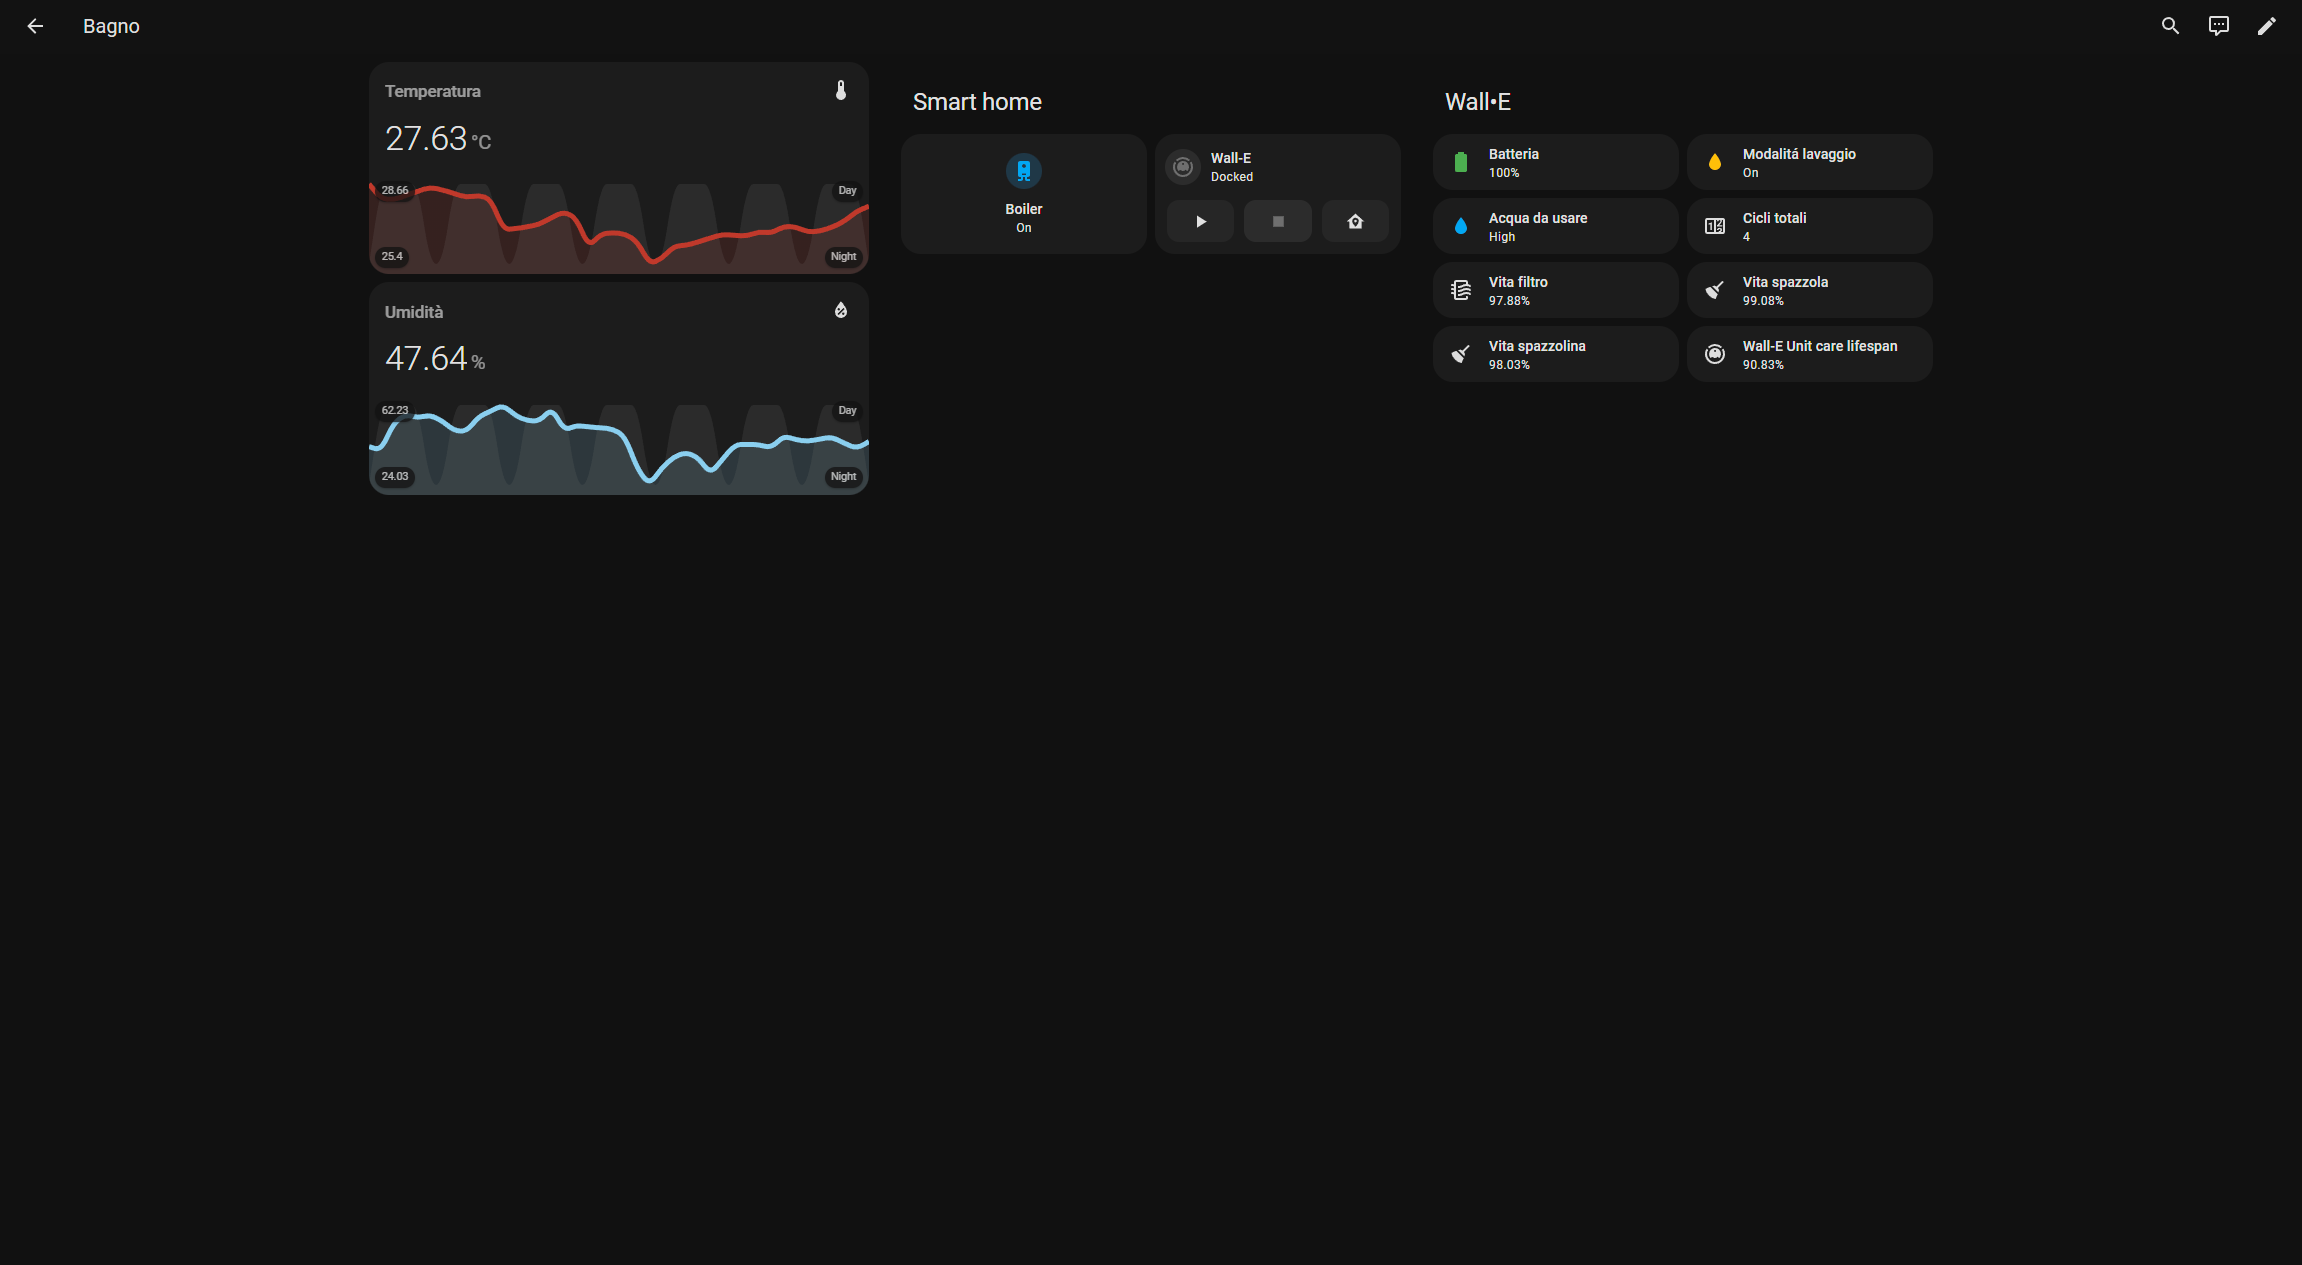
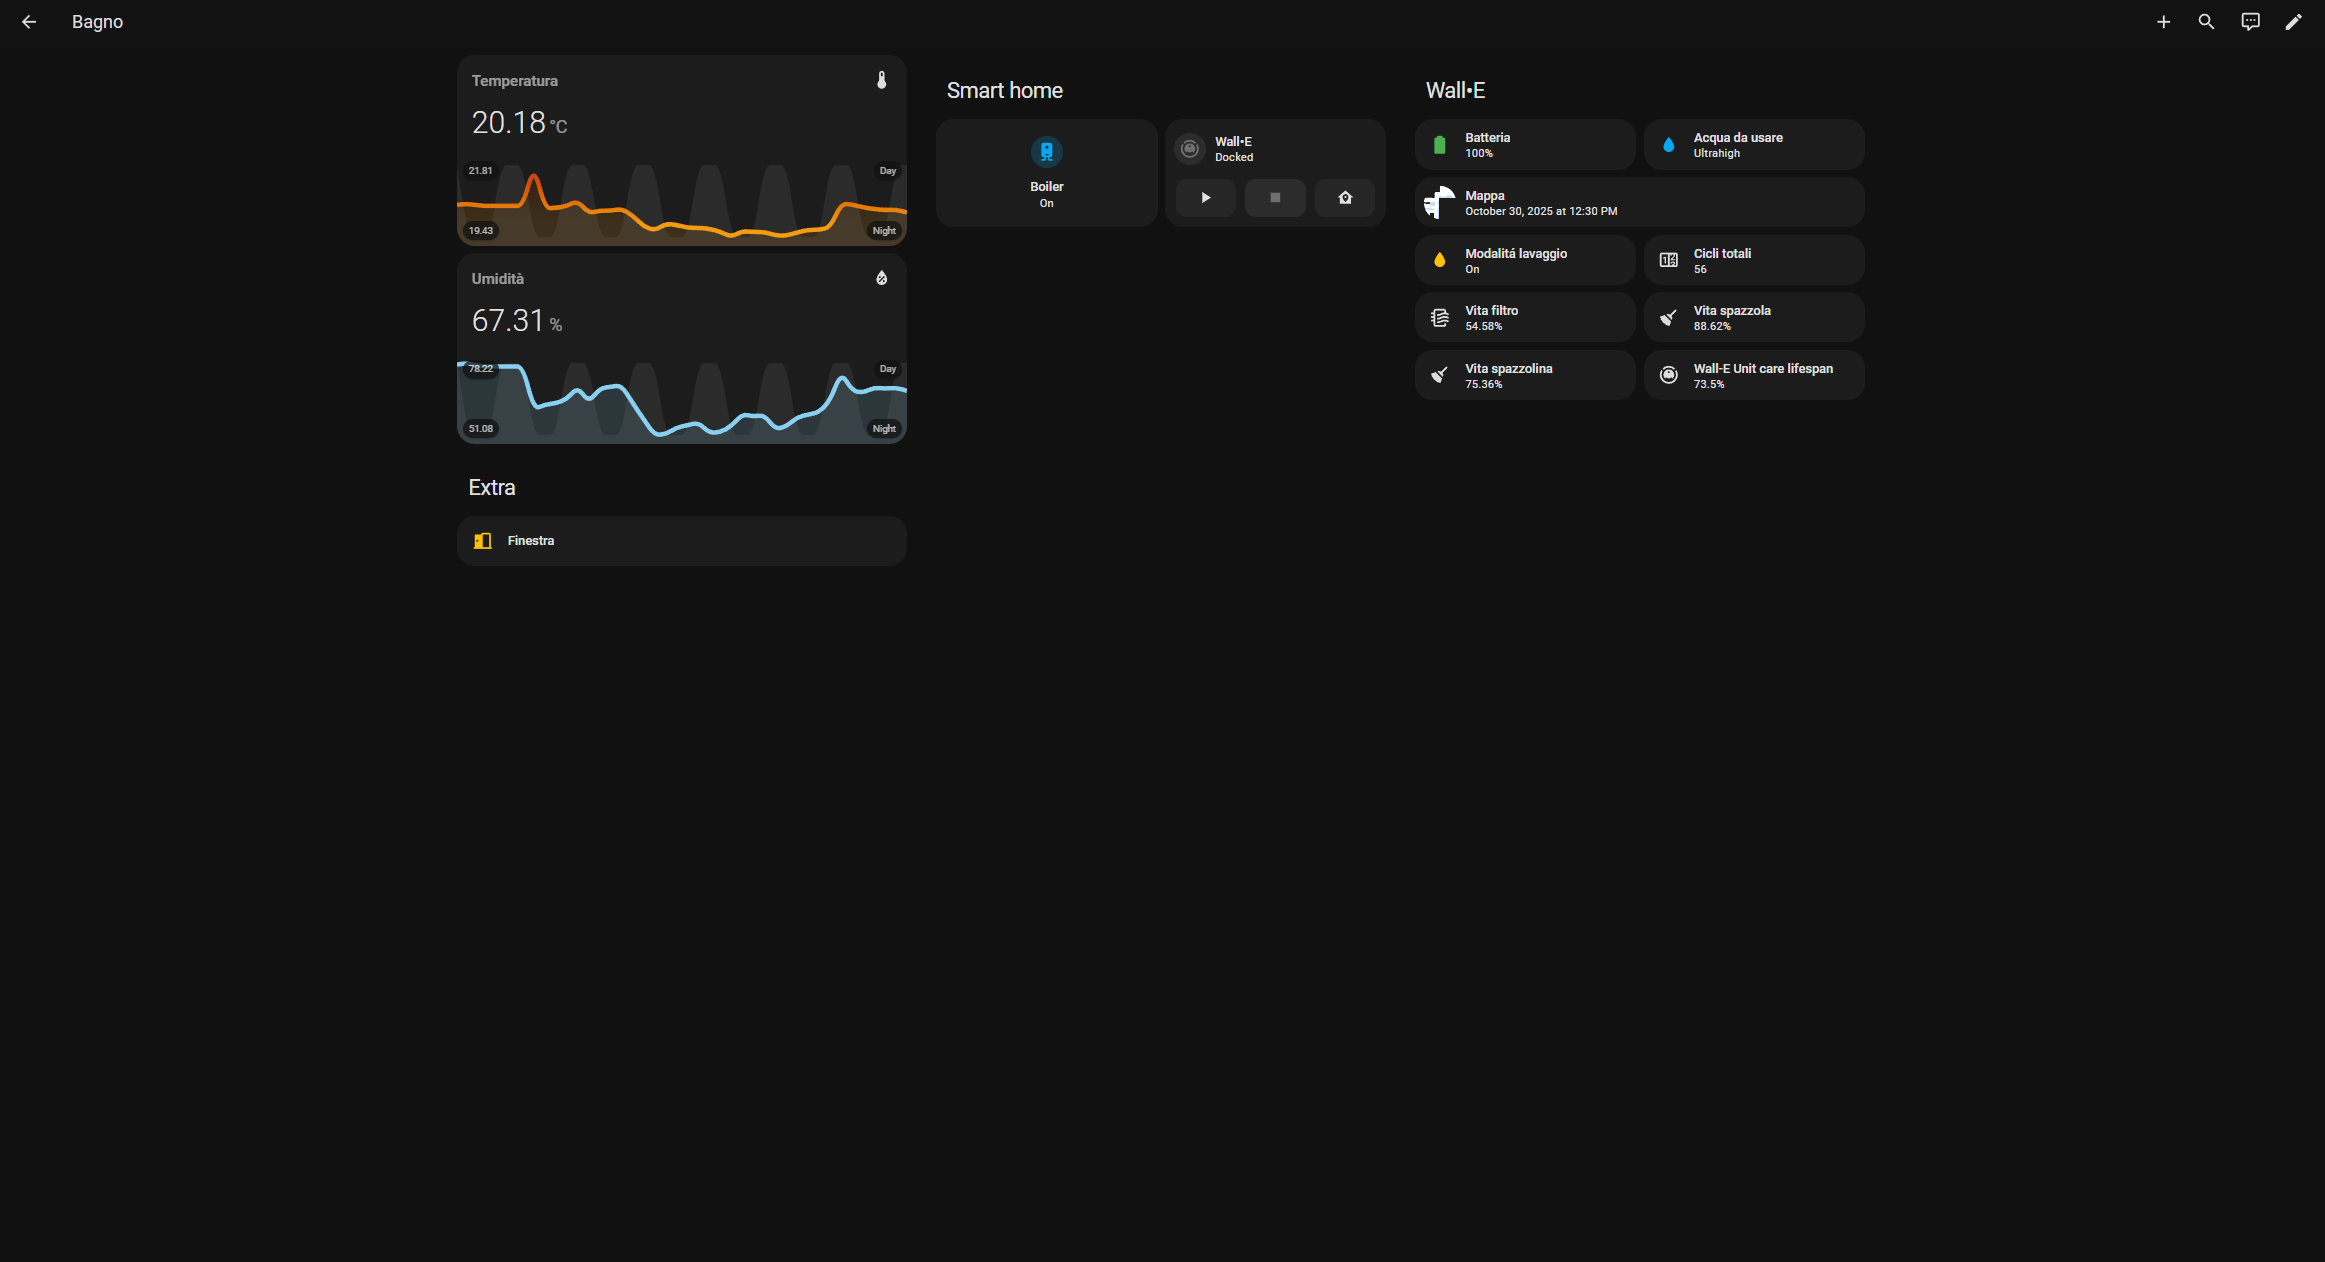
feat(docs): update readme and Lovelace screenshots

diff --git a/README.md b/README.md
@@ -12,8 +12,8 @@ I regularly update my configuration files. You can check my current Home Assista
 
 Description | value
 -- | --
-Number of entities | 544
-Number of sensors | 281
+Number of entities | 558
+Number of sensors | 292
 
 
 ## My installed extensions:
@@ -71,12 +71,12 @@ Number of sensors | 281
 
 <details>
   <summary>Mobile</summary>
-    <img src="docs/images/mobile/home.jpg" alt="Home"/>
+    <img src="docs/images/mobile/home.png" alt="Home"/>
     <img src="docs/images/mobile/livingroom.jpg" alt="Livingroom"/>
     <img src="docs/images/mobile/bedroom.jpg" alt="Bedroom"/>
-    <img src="docs/images/mobile/kitchen.jpg" alt="Kitchen"/>
-    <img src="docs/images/mobile/bathroom.jpg" alt="Bathroom"/>
-    <img src="docs/images/mobile/entrance.jpg" alt="Entrance"/>
+    <img src="docs/images/mobile/kitchen.png" alt="Kitchen"/>
+    <img src="docs/images/mobile/bathroom.png" alt="Bathroom"/>
+    <img src="docs/images/mobile/entrance.png" alt="Entrance"/>
     <img src="docs/images/mobile/lab.jpg" alt="Lab"/>
     <img src="docs/images/mobile/devices.jpg" alt="Devices"/>
     <img src="docs/images/mobile/stats_1.jpg" alt="Stats 1"/>
